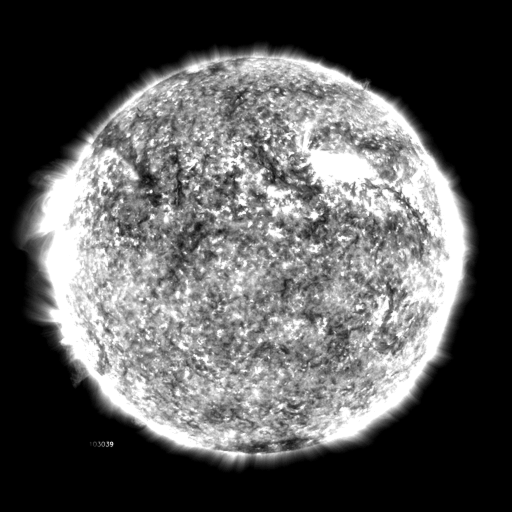
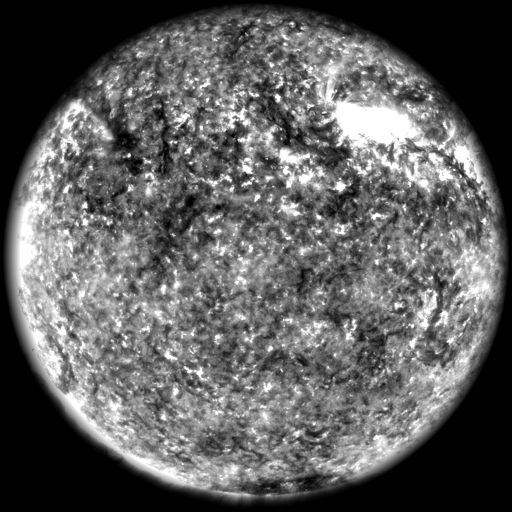
fix: center and decouple star closeup detailmap

diff --git a/src/tools/rendering/scripts/derive_star_detailmap.py b/src/tools/rendering/scripts/derive_star_detailmap.py
@@ -1,17 +1,110 @@
 from __future__ import annotations
 
 import argparse
+import math
 from pathlib import Path
 
 from PIL import Image, ImageEnhance, ImageFilter, ImageOps
 
 
+def _threshold_mask(luminance: Image.Image) -> tuple[int, list[tuple[int, int, int]], list[tuple[int, int, int]]]:
+    pixels = luminance.load()
+    width, height = luminance.size
+    max_value = max(luminance.getextrema()[1], 1)
+    threshold = max(28, int(max_value * 0.18))
+
+    row_spans: list[tuple[int, int, int]] = []
+    max_row_span = 0
+    for y in range(height):
+        left = -1
+        right = -1
+        for x in range(width):
+            if pixels[x, y] >= threshold:
+                if left == -1:
+                    left = x
+                right = x
+        if left != -1:
+            span = right - left + 1
+            row_spans.append((y, left, right))
+            max_row_span = max(max_row_span, span)
+
+    col_spans: list[tuple[int, int, int]] = []
+    max_col_span = 0
+    for x in range(width):
+        top = -1
+        bottom = -1
+        for y in range(height):
+            if pixels[x, y] >= threshold:
+                if top == -1:
+                    top = y
+                bottom = y
+        if top != -1:
+            span = bottom - top + 1
+            col_spans.append((x, top, bottom))
+            max_col_span = max(max_col_span, span)
+
+    return threshold, row_spans, col_spans
+
+
+def _find_disc_geometry(luminance: Image.Image) -> tuple[float, float, float]:
+    width, height = luminance.size
+    _, row_spans, col_spans = _threshold_mask(luminance)
+    if not row_spans or not col_spans:
+        return width * 0.5, height * 0.5, min(width, height) * 0.45
+
+    max_row_span = max((right - left + 1) for _, left, right in row_spans)
+    max_col_span = max((bottom - top + 1) for _, top, bottom in col_spans)
+    core_rows = [
+        (y, left, right)
+        for y, left, right in row_spans
+        if (right - left + 1) >= max_row_span * 0.70
+    ]
+    core_cols = [
+        (x, top, bottom)
+        for x, top, bottom in col_spans
+        if (bottom - top + 1) >= max_col_span * 0.70
+    ]
+    if not core_rows:
+        core_rows = row_spans
+    if not core_cols:
+        core_cols = col_spans
+
+    center_x = sum((left + right) * 0.5 for _, left, right in core_rows) / len(core_rows)
+    center_y = sum((top + bottom) * 0.5 for _, top, bottom in core_cols) / len(core_cols)
+    radius_x = sum((right - left + 1) * 0.5 for _, left, right in core_rows) / len(core_rows)
+    radius_y = sum((bottom - top + 1) * 0.5 for _, top, bottom in core_cols) / len(core_cols)
+    radius = max(1.0, min(radius_x, radius_y))
+    return center_x, center_y, radius
+
+
+def _crop_square_centered(source: Image.Image, center_x: float, center_y: float, radius: float) -> Image.Image:
+    half_extent = max(1.0, radius * 1.06)
+    extent = max(2, int(round(half_extent * 2.0)))
+    left = int(math.floor(center_x - half_extent))
+    top = int(math.floor(center_y - half_extent))
+    right = left + extent
+    bottom = top + extent
+
+    cropped = Image.new("RGBA", (extent, extent), (0, 0, 0, 255))
+    src_left = max(0, left)
+    src_top = max(0, top)
+    src_right = min(source.width, right)
+    src_bottom = min(source.height, bottom)
+    if src_right <= src_left or src_bottom <= src_top:
+        return cropped
+
+    region = source.crop((src_left, src_top, src_right, src_bottom))
+    paste_x = src_left - left
+    paste_y = src_top - top
+    cropped.paste(region, (paste_x, paste_y))
+    return cropped
+
+
 def _build_detailmap(source_path: Path, output_path: Path, size: int) -> None:
     src = Image.open(source_path).convert("RGBA")
-    square_extent = min(src.width, src.height)
-    left = (src.width - square_extent) // 2
-    top = (src.height - square_extent) // 2
-    src = src.crop((left, top, left + square_extent, top + square_extent))
+    luminance_source = ImageOps.grayscale(src).filter(ImageFilter.GaussianBlur(radius=1.2))
+    center_x, center_y, radius = _find_disc_geometry(luminance_source)
+    src = _crop_square_centered(src, center_x, center_y, radius)
     src = src.resize((size, size), Image.Resampling.LANCZOS)
 
     luminance = ImageOps.grayscale(src)

diff --git a/docs/NEXT_STEPS.md b/docs/NEXT_STEPS.md
@@ -478,6 +478,34 @@ Offen / spaeter:
   `prominence_strength`, `sunspot_strength` und die Fokusstern-Skalierung
   vorgesehen, nicht ueber einen neuen Kamera-Umbau
 
+## Prioritaet 14.6b - View Phase G Follow-up: Detailmap entkoppeln, zentrieren und als statische Closeup-Hauptschicht fuehren - erledigt
+
+Ziel:
+Der erste P14.6-Hybridpfad machte zwei Probleme gleichzeitig sichtbar:
+die abgeleitete Bildmap war nicht sauber disc-zentriert und sie lief im
+Shader mit einer eigenen `TIME`-Translation gegen die prozedurale
+Sternoberflaeche. P14.6b zieht diesen Closeup-Pfad deshalb auf eine
+statische, zentrierte und im High-Closeup dominante Surface-Lesart
+zurecht.
+
+Erledigt:
+
+- `derive_star_detailmap.py` bestimmt jetzt den Disc-Bereich aus der
+  Referenz, schneidet aeussere Protuberanzen ab und erzeugt eine
+  zentrierte `512x512`-Structure-Map statt nur eines quadratischen
+  Roh-Crops
+- `star_detailmap.png` wurde entsprechend neu generiert; die
+  Asset-Notiz dokumentiert jetzt zentrierte Disc-Nutzung und statisches
+  Shader-Sampling ohne `TIME`-Translation
+- `body_star.gdshader` sampelt die Detailmap jetzt komplett statisch
+  und disc-zentriert
+- im High-Closeup wird die Detailmap als sichtbare Surface-Leader-Lage
+  gefuehrt; Granulation, Activity, Filamente und Meso-Layer werden ueber
+  einen `smoothstep`-Gate nur amplitude-seitig gedimmt, bleiben aber als
+  subtil animierter Unterbau erhalten
+- das statische Macro-Feld bleibt bewusst ungedaempft, damit die
+  Sternscheibe trotz staerkerer Bildstruktur nicht flach wird
+
 ## Prioritaet 15 - Architektur-Cleanup: Topologie, Test-Harness und View-Split - erledigt
 
 Ziel:

diff --git a/docs/DECISIONS.md b/docs/DECISIONS.md
@@ -1,5 +1,27 @@
 # Graviton - Decisions
 
+## 2026-04-19 - P14.6b macht die Stern-Detailmap statisch, zentriert und dominant im Closeup
+
+P14.6 hat bewusst einen Hybridpfad aus prozeduralem Sternshader und
+abgeleiteter Detailmap eingefuehrt. Der erste Lauf zeigte aber zwei
+gekoppelte Probleme: die Detailmap war nicht sauber auf die
+Sternscheibe zentriert und sie lief mit eigener `TIME`-Translation
+gegen die animierte P14.5/P14.6-Prozeduralbasis. P14.6b zieht diesen
+Pfad deshalb explizit gerade:
+
+- die abgeleitete `star_detailmap.png` wird als disc-zentrierte innere
+  Strukturmap erzeugt; aeussere Protuberanzen aus der Referenz werden
+  bewusst abgeschnitten
+- der Shader sampelt die Detailmap statisch und ohne Rotation oder
+  Translation fest im Sternzentrum
+- im Stern-Closeup darf nur noch eine Oberflaechenlogik dominant lesen:
+  die sichtbare Detailmap fuehrt, waehrend Granulation, Activity,
+  Filamente und Meso-Layer nur amplitude-seitig gedimmt als animierter
+  Unterbau erhalten bleiben
+- das statische Macro-Feld bleibt bewusst auf `100%`, ebenso Rim/Edge;
+  nur die konkurrierenden Mid-/Fine-Layer werden ueber einen
+  `smoothstep`-gated `lerp` reduziert
+
 ## 2026-04-19 - P14.6 gibt Sterne bewusst einen eigenen Fokus-Closeup-Mode
 
 P14.6 baut auf P14.5 auf, loest dessen verbleibende Schwaeche aber

diff --git a/src/tools/rendering/assets/README.md b/src/tools/rendering/assets/README.md
@@ -2,10 +2,10 @@
 
 ## `star_detailmap.png`
 
-Derived reusable structure map for the P14.6 star closeup shader.
+Derived reusable structure map for the P14.6/P14.6b focused-star closeup shader.
 
 - Source basis: user-provided solar reference image at `D:/Downloads/sun.png`
-- Usage: structure/luminance source for focused-star closeups
+- Usage: centered structure/luminance source for focused-star closeups
 - Not used as a direct photo skin for stars
 
 Regeneration:
@@ -20,7 +20,14 @@ C:\Users\Sh4man\.cache\codex-runtimes\codex-primary-runtime\dependencies\python\
 
 The derivation intentionally:
 
-- crops to a square
-- keeps only the solar disc / near-disc structure
+- detects the solar disc and centers it on a square canvas
+- clips outer protuberances from the source image
+- keeps only the inner solar disc structure
 - normalizes luminance and contrast
 - produces a reusable grayscale detail map for shader modulation
+
+The shader intentionally samples the map statically:
+
+- no `TIME`-based translation
+- no rotation
+- centered disc-aligned UV sampling only

diff --git a/docs/STATUS.md b/docs/STATUS.md
@@ -195,6 +195,16 @@ Die Simulationsbasis bleibt getrennt von der Darstellung:
   Ableitungsskript aus der Referenzdatei `sun.png` in den Repo-Workflow;
   P14.6 fuehrt dafuer ein eigenes Rendering-Asset und eine kurze
   Asset-Notiz ein, statt die Detailquelle nur lokal implizit zu halten.
+- P14.6b zieht diese Detailmap jetzt bewusst wieder auf eine
+  disc-zentrierte, statische Closeup-Schicht zurecht: die abgeleitete
+  `star_detailmap.png` wird neu zentriert, aeussere Protuberanzen werden
+  aus der Map abgeschnitten, und der Shader sampelt die Bildstruktur
+  ohne `TIME`-Translation fest im Sternzentrum.
+- Im Stern-Closeup darf damit nur noch eine Oberflaechenlogik dominieren:
+  die sichtbare Detailmap fuehrt die Surface-Lesbarkeit, waehrend
+  Granulation, Activity, Filament- und Meso-Layer nur amplitude-seitig
+  gedimmt als animierter Unterbau erhalten bleiben; das statische
+  Macro-Feld sowie Rim/Edge bleiben unveraendert voll aktiv.
 
 ## Ziel dieser Praesentationsschicht
 
